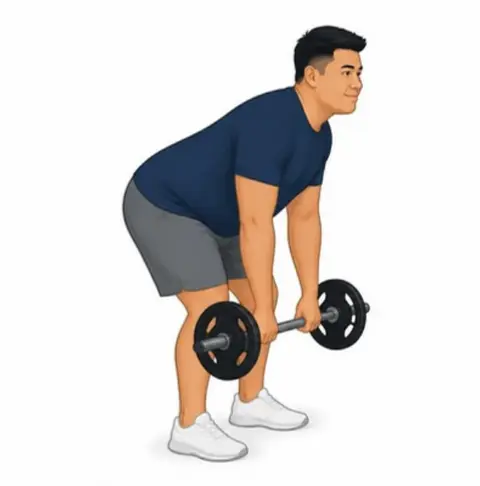
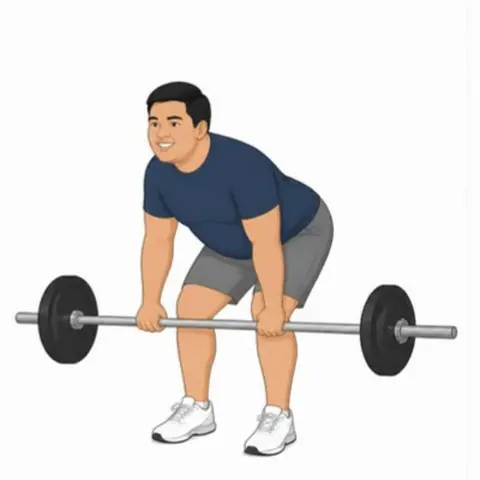
Ilustrasi Canva AI untuk 31 gerakan bank + perbaiki Barbell Curl & Bent-over Row
- 31 ilustrasi baru (2 frame: posisi awal & akhir) dengan orang dan gaya
  yang sama seperti ilustrasi lama, diekspor 1200×600 lalu dipecah jadi
  WebP <id>-a / <id>-b (skala sama di kedua frame agar transisi mulus)
- Barbell Curl & Bent-over Row dibuat ulang dengan barbel sungguhan
- scripts/split-illustration.sh untuk memecah ekspor Canva
- README: bank gerakan, tingkat lutut, cara memecah ilustrasi

Closes #3

Claude-Session: https://claude.ai/code/session_01FSqNMihmPMpv5L54r2dNEa

Changed region(s): [[0.0312, 0.0312, 0.9688, 0.9688]]

diff --git a/README.md b/README.md
@@ -10,6 +10,10 @@ dengan **1 set barbel 40 kg yang bisa dibongkar jadi dumbel**.
 - **Ilustrasi contoh gerakan** untuk setiap gerakan (dibuat dengan Canva AI): posisi awal dan akhir
   berganti otomatis seperti animasi, tetap tersedia offline. Plus cara melakukan, kesalahan umum,
   dan link video YouTube.
+- **Bank gerakan (±53 gerakan)**: tiap hari tersusun dari slot (mis. "Dorong dada", "Hinge"), tiap slot punya
+  2–3 alternatif. Slot utama tetap selama **blok 4 minggu** (diganti lebih cepat kalau mandek), slot pelengkap
+  & core berganti tiap sesi. Tandai ❤/🚫 di halaman Gerakan, atau **Ganti gerakan** dari Beranda/layar latihan.
+  Beban awal gerakan baru diperkirakan dari gerakan "saudara" yang sudah punya data.
 - **Rotasi bergulir** A (Dada + Bicep) → B (Back + Tricep) → C (Lower) → Hari Aktif. Fase 2 (A-B-C-A-B-C-Aktif)
   ditawarkan setelah 6 minggu kalau lutut stabil.
 - **Deteksi beban maksimal (e1RM)** dengan rumus Epley dari setiap set, set kalibrasi di sesi pertama,
@@ -17,7 +21,8 @@ dengan **1 set barbel 40 kg yang bisa dibongkar jadi dumbel**.
 - **Double progression**: semua set mencapai batas atas → beban naik ke kombinasi pelat berikutnya.
   Kalau sudah mentok, rentang repetisi digeser lalu tempo lambat.
 - **Lutut kiri**: cek nyeri 0–10 sebelum/sesudah hari C dan keesokan harinya. Nyeri ≥4 → beban kaki −20%.
-  Step-up baru terbuka setelah 2 sesi C dengan nyeri ≤2.
+  Gerakan kaki punya tingkat beban lutut: ringan (selalu boleh), sedang (setelah 2 sesi C dengan nyeri ≤2),
+  berat (Fase 2, setelah 4 sesi C dengan nyeri ≤2).
 - **Deload** otomatis (maks tiap 8 minggu, atau lebih cepat kalau progres mandek / sering "berat" / lutut memburuk).
 - Timer istirahat (getar + bunyi), pemanasan terpandu, layar tetap menyala saat latihan.
 - Grafik e1RM, volume, berat badan. Ekspor/impor backup JSON.
@@ -38,6 +43,7 @@ Struktur:
 
 - `src/coach/` — logika coach murni (pelat, e1RM, progresi, rotasi, lutut, deload, planner) + program latihan.
 - `public/exercises/` — ilustrasi gerakan (`<id>-a.webp` posisi awal, `<id>-b.webp` posisi akhir).
+  Ilustrasi Canva 1200×600 dipecah dengan `scripts/split-illustration.sh <id> <png>`.
 - `src/data/` — penyimpanan IndexedDB (Dexie) + service yang menghubungkan logika dan data.
 - `src/ui/` — tampilan React.
 
